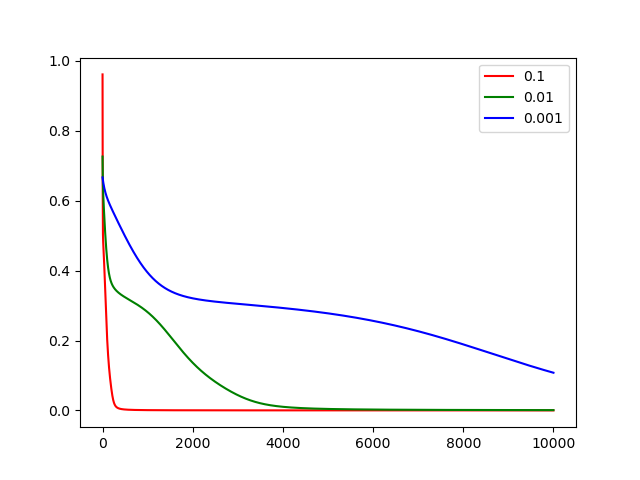
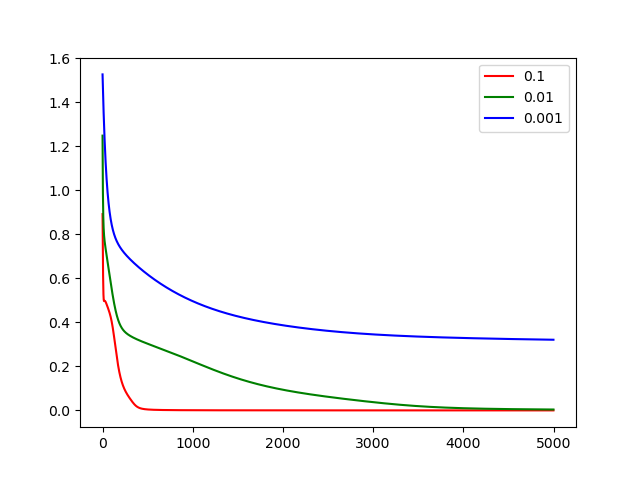
comments

diff --git a/model/model.py b/model/model.py
@@ -20,7 +20,7 @@ def create_network(x_train, y_train, lr, plot_details):
     net.add(ActivationLayer(tanh, tanh_prime))
 
     net.use(mse, mse_prime)
-    net.fit(x_train, y_train, epochs = 10000, learning_rate = lr, plot_details = plot_details)
+    net.fit(x_train, y_train, epochs = 5000, learning_rate = lr, plot_details = plot_details)
 
     return net.predict(x_train)
 

diff --git a/src/activation_layer.py b/src/activation_layer.py
@@ -11,7 +11,7 @@ class ActivationLayer(Layer):
         self.output = self.activation(input)
         return self.output
 
-    def backward_propagation(self, output_error, learning_rate):
+    def backward_propagation(self, output_error, learning_Rate):
         return self.activation_prime(self.input) * output_error
 
 # Implementing Using Tanh Activation Function

diff --git a/input/binaryop_data.py b/input/binaryop_data.py
@@ -1,5 +1,7 @@
 import numpy as np
-
+'''
+Three Functions to Build the Datasets for the XOR, OR, and AND Gates
+'''
 def xor_data():
     x_train = np.array([[[0, 0]], [[0, 1]], [[1, 0]], [[1, 1]]])
     y_train = np.array([[[0]], [[1]], [[1]], [[0]]])
